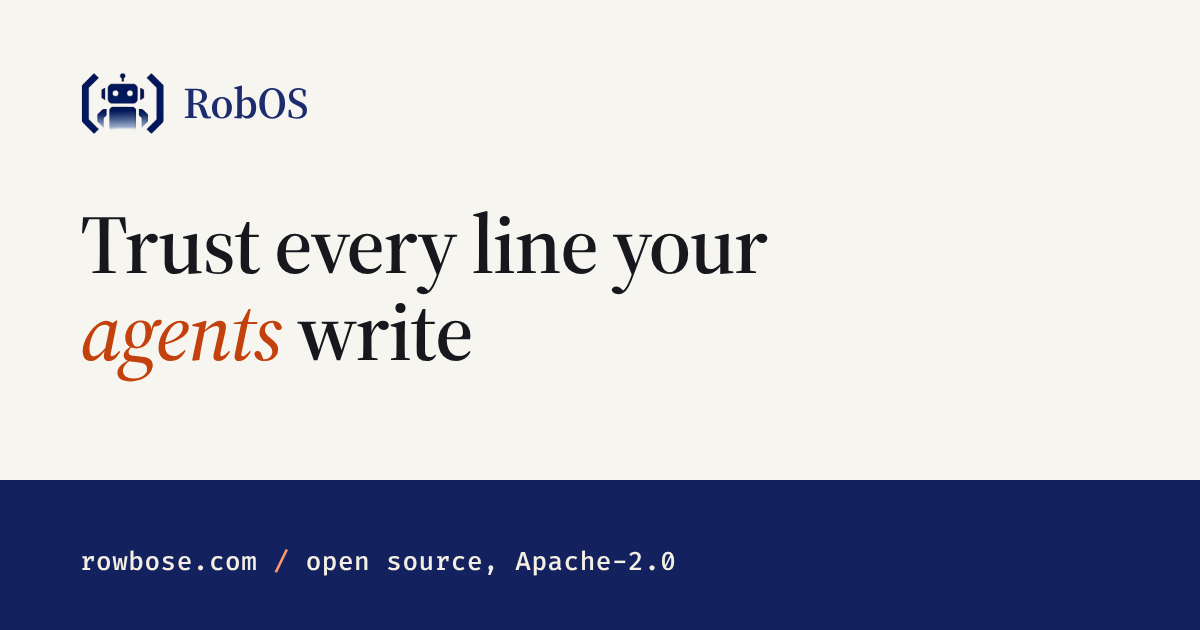
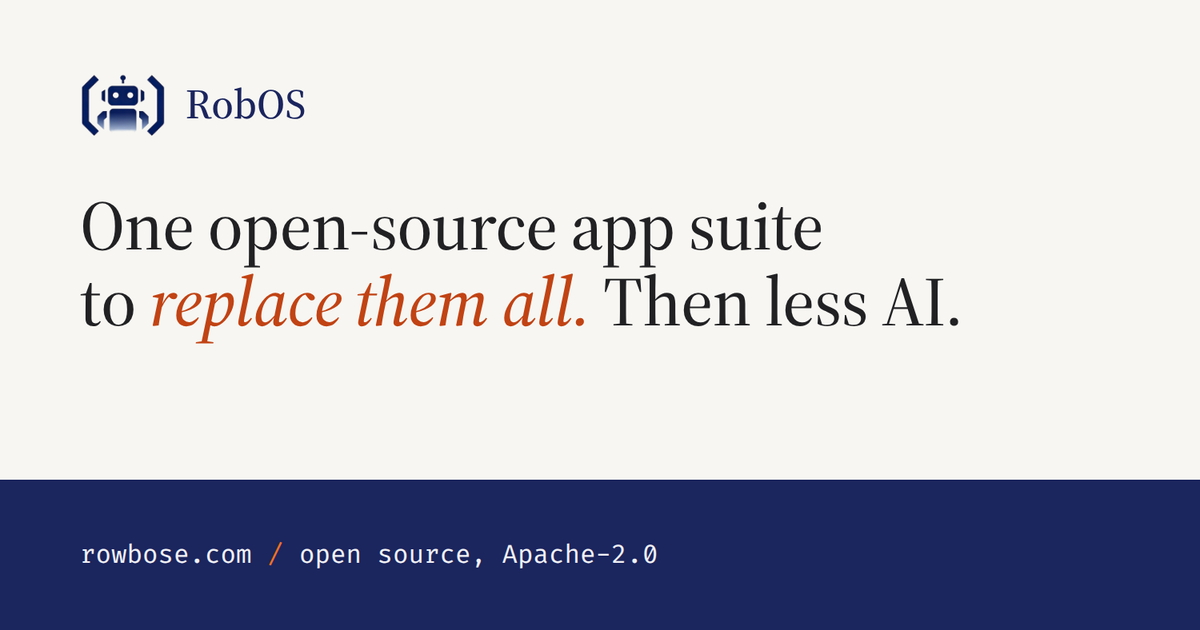
feat(site): lead the landing page with the two-move vision
Replace everything, slowly: one open-source suite that swaps out paid apps
one at a time. Then need less AI: keep and reuse what AI produces (code,
KGraph, tests) so each new app needs less AI and electricity, linking to the
Skill Commons proposal on /future/ with an honest exists-today note.

- new hero headline, lead and live app count (site.apps | size)
- new #vision section with swap list, reuse loop and roadmap illustration
- refreshed SEO title, description, llms.txt, footer tagline and OG card
- README documents the vision copy rules, Mermaid source and OG template

Changed region(s): [[0.0617, 0.3016, 0.8017, 0.6032], [0.0617, 0.8444, 0.5858, 0.9048], [0.0617, 0.1206, 0.2775, 0.2111]]

diff --git a/site/assets/landing.css b/site/assets/landing.css
@@ -121,4 +121,31 @@
 .landing #product .grid3 .card .go{display:inline-block}
 .l-ask{margin-top:28px;max-width:760px}
 #ai .l-show{margin-bottom:44px}
+
+/* vision: the two moves (replace everything, then need less AI) */
+.l-moves{display:grid;grid-template-columns:repeat(2,minmax(0,1fr));gap:18px;margin-top:44px}
+.l-move{display:flex;flex-direction:column;gap:12px}
+.l-move h3{font-size:1.35rem;margin:0}
+.l-move .go{margin-top:auto;padding-top:6px}
+.l-move-tag{align-self:flex-start;font-size:.72rem;font-weight:700;letter-spacing:.08em;text-transform:uppercase;border-radius:999px;padding:3px 10px;border:1px solid}
+.l-move-tag.is-now{color:#15803d;border-color:color-mix(in srgb,#15803d 45%,transparent)}
+.l-move-tag.is-next{color:var(--accent);border-color:color-mix(in srgb,var(--accent) 55%,transparent)}
+[data-theme=dark] .l-move-tag.is-now{color:#4ade80;border-color:color-mix(in srgb,#4ade80 45%,transparent)}
+.l-swaps{list-style:none;margin:4px 0 0;padding:0;display:grid;gap:6px}
+.l-swaps li{display:grid;grid-template-columns:minmax(0,1fr) auto minmax(0,1fr);align-items:center;gap:10px;font-size:.9rem}
+.l-swaps li:before{content:'→';grid-column:2;grid-row:1;color:var(--muted)}
+.l-swaps span{grid-column:1;grid-row:1;color:var(--muted);text-decoration:line-through;text-decoration-color:color-mix(in srgb,var(--muted) 55%,transparent)}
+.l-swaps a{grid-column:3;grid-row:1;font-weight:600;color:var(--fg);border:1px solid var(--line);border-radius:6px;padding:4px 10px;background:var(--bg2)}
+.l-swaps a:hover{border-color:var(--accent);color:var(--accent)}
+.l-loop{list-style:none;margin:4px 0 0;padding:0;display:grid;gap:8px;counter-reset:lp}
+.l-loop li{counter-increment:lp;position:relative;padding:8px 12px 8px 44px;border:1px solid var(--line);border-radius:8px;background:var(--bg2);font-size:.9rem;color:var(--muted)}
+.l-loop li:before{content:counter(lp);position:absolute;left:12px;top:50%;transform:translateY(-50%);display:grid;place-items:center;width:22px;height:22px;border-radius:50%;background:var(--accent);color:var(--btn-fg);font-size:.75rem;font-weight:700}
+.l-loop li:last-child{padding-right:34px}
+.l-loop li:last-child:after{content:'↺';position:absolute;right:12px;top:50%;transform:translateY(-50%);color:var(--accent);font-weight:700}
+.l-loop b{color:var(--fg)}
+.l-vision-fig{margin:28px 0 0}
+.l-vision-fig img{display:block;width:100%;height:auto;border:1px solid var(--line);border-radius:12px;background:#111827}
+#vision .l-note a{color:var(--accent);font-weight:600;text-decoration:underline}
+@media(max-width:860px){.l-moves{grid-template-columns:1fr}}
+@media(max-width:520px){.l-swaps li{grid-template-columns:1fr;gap:2px}.l-swaps li:before{display:none}.l-swaps span,.l-swaps a{grid-column:1;grid-row:auto;justify-self:start}}
 @media(max-width:600px){.l-mosaic{grid-template-columns:repeat(2,minmax(0,1fr))}}

diff --git a/site/_layouts/default.html b/site/_layouts/default.html
@@ -45,7 +45,7 @@
   <div class="wrap foot-in">
     <div>
       <a class="brand" href="{{ '/' | relative_url }}"><img src="{{ '/assets/logo-mark.png' | relative_url }}" alt="" height="30"><span>RobOS</span></a>
-      <p class="muted">One app suite.<br>Make it yours.</p>
+      <p class="muted">One open-source app suite.<br>Replace them all. Need less AI.</p>
     </div>
     <div><h4>Product</h4><a href="{{ '/download/' | relative_url }}">Download</a><a href="{{ '/apps/' | relative_url }}">App directory</a><a href="{{ '/build-apps/' | relative_url }}">Build apps guide</a><a href="{{ '/code-review/' | relative_url }}">Code review guide</a><a href="{{ '/auto-center/' | relative_url }}">Auto Center guide</a><a href="{{ '/point-of-sale/' | relative_url }}">Point of Sale guide</a><a href="{{ '/family-finances/' | relative_url }}">Family finances guide</a><a href="{{ '/movie-player/' | relative_url }}">Movie &amp; Video Player guide</a><a href="{{ '/p2p/' | relative_url }}">Zero-Trust P2P App Mesh</a><a href="{{ '/config-management/' | relative_url }}">Config management guide</a><a href="{{ '/games/' | relative_url }}">Games</a><a href="{{ '/tv/' | relative_url }}">Smart TV guide</a><a href="{{ '/v1/roadmap.html' | relative_url }}">Roadmap</a><a href="{{ '/future/' | relative_url }}">The future</a></div>
     <div><h4>Resources</h4><a href="{{ '/docs/' | relative_url }}">Documentation</a><a href="{{ '/security/' | relative_url }}">Security</a><a href="{{ '/blog/' | relative_url }}">Blog</a><a href="{{ '/v1/getting-started.html' | relative_url }}">Installation guide</a><a href="{{ '/v1/' | relative_url }}">Classic docs (v1)</a></div>

diff --git a/scripts/site-og-card.html b/scripts/site-og-card.html
@@ -1,0 +1,21 @@
+<!doctype html>
+<html><head><meta charset="utf-8">
+<link href="https://fonts.googleapis.com/css2?family=Source+Serif+4:ital,opsz,wght@0,8..60,500;1,8..60,500&family=Fira+Code:wght@400&display=swap" rel="stylesheet">
+<style>
+  html,body{margin:0;width:1200px;height:630px;overflow:hidden}
+  .card{width:1200px;height:630px;display:grid;grid-template-rows:480px 150px;font-family:'Source Serif 4',Georgia,serif}
+  .top{background:#f7f6f2;padding:72px 80px 0}
+  .brand{display:flex;align-items:center;gap:20px;color:#14205e;font-size:42px;font-weight:500}
+  .brand img{height:64px}
+  h1{margin:52px 0 0;font-size:70px;line-height:1.08;font-weight:500;color:#1b1b1f;letter-spacing:-.01em}
+  h1 em{color:#c2410c;font-style:italic}
+  .bot{background:#14205e;display:flex;align-items:center;padding:0 80px;font:26px 'Fira Code',monospace;color:#f2f2f6;gap:16px}
+  .bot i{color:#f97316;font-style:normal}
+</style></head>
+<body><div class="card">
+  <div class="top">
+    <div class="brand"><img src="/assets/logo-mark.png" alt=""><span>RobOS</span></div>
+    <h1>One open-source app suite<br>to <em>replace them all.</em> Then less AI.</h1>
+  </div>
+  <div class="bot">rowbose.com <i>/</i> open source, Apache-2.0</div>
+</div></body></html>

diff --git a/site/_includes/seo.html b/site/_includes/seo.html
@@ -2,7 +2,7 @@
 {%- if page.seo_title -%}
   {%- assign seo_title = page.seo_title -%}
 {%- elsif page.url == '/' -%}
-  {%- assign seo_title = 'RobOS — One app suite. Make it yours.' -%}
+  {%- assign seo_title = 'RobOS — One open-source app suite to replace them all.' -%}
 {%- elsif page.layout == 'game' -%}
   {%- assign seo_title = page.title | append: ' · RobOS Games' -%}
 {%- elsif page.title -%}

diff --git a/site/index.md b/site/index.md
@@ -1,30 +1,30 @@
 ---
 layout: default
 title: RobOS
-description: "RobOS is an open-source app suite built on one knowledge graph. Use the apps as they are, customize any of them, or describe a new app and have it built. AI features inside the apps are optional, like the Audio Player's Virtual DJ."
+description: "RobOS is one open-source app suite built to replace the apps you pay for, one at a time, on one knowledge graph. Then it keeps and reuses what AI makes, so every new app needs less AI and less electricity."
 permalink: /
 body_class: landing
 extra_css: /assets/landing.css
 og_image: /assets/og.png
 og_image_width: 1200
 og_image_height: 630
-og_image_alt: "RobOS — One app suite. Make it yours."
-keywords: "RobOS, Rowbose, rowbose.com, open-source app suite, knowledge graph, KGraph, context engineering, Point of Sale, Auto Center, Household finances, Audio Player Virtual DJ, Godot 4 AI games, developer tools, coding agents"
+og_image_alt: "RobOS — One open-source app suite to replace them all. Then need less AI."
+keywords: "RobOS, Rowbose, rowbose.com, open-source app suite, replace paid apps, open-source alternatives, knowledge graph, KGraph, context engineering, AI energy use, reuse AI output, Skill Commons, Point of Sale, Auto Center, Household finances, Audio Player Virtual DJ, Godot 4 AI games, developer tools, coding agents"
 ---
 <section class="l-hero">
   <div class="wrap l-hero-grid">
     <div>
-      <a class="pill" href="{{ '/blog/' | relative_url }}"><b>New</b> · OBD-II in Auto Center, a Virtual DJ in Audio Player →</a>
-      <h1>One app suite. <em>Make it yours.</em></h1>
-      <p class="lead">RobOS is a suite of desktop apps, from a point of sale and an auto shop to household finances, games, music and developer tools, all built on one knowledge graph. Use the apps as they are, customize any of them to fit how you work, or describe a new app and RobOS builds it.</p>
+      <a class="pill" href="#vision"><b>The plan</b> · Replace everything, then need less AI →</a>
+      <h1>One open-source app suite <em>to replace them all.</em></h1>
+      <p class="lead">Free desktop apps for shops, homes, players and developers, all on one knowledge graph. First RobOS replaces the apps you pay for, one at a time. Then it keeps and reuses what AI makes, so each new app needs less AI, and less electricity.</p>
       <ul class="l-three">
-        <li><b>Use</b> ready-made app suites, free and local</li>
+        <li><b>Replace</b> paid apps with free, local ones ({{ site.apps | size }} so far)</li>
         <li><b>Customize</b> any app by describing the change</li>
-        <li><b>Build</b> new apps from context, with proof they work</li>
+        <li><b>Reuse</b> what AI built once, instead of asking it again</li>
       </ul>
       <div class="cta">
         <a class="btn" data-dl-href data-win="{{ site.data.release.url }}" data-win-asset="RobOS-v{{ site.data.release.version }}-Windows-Setup.exe" data-release-tag="{{ site.data.release.tag }}" data-mac="/download/#linux-distro" data-linux="/download/#linux-distro" href="{{ '/download/' | relative_url }}"><img class="btn-ic" src="/assets/icons/download.svg" alt="" width="18" height="18"> <span data-dl-label>Download RobOS</span></a>
-        <a class="btn btn-ghost" href="#suites">Browse the suites</a>
+        <a class="btn btn-ghost" href="#vision">See the plan</a>
       </div>
       <p class="sub">Free &amp; open source · macOS, Linux, Windows · <a href="{{ '/download/' | relative_url }}">Other install options</a></p>
     </div>
@@ -42,6 +42,46 @@ keywords: "RobOS, Rowbose, rowbose.com, open-source app suite, knowledge graph, 
 </section>
 
 <div class="logos"><div class="wrap">Optional AI features use the agent you already have, or none at all<div><span>Claude Code</span><span>OpenAI Codex</span><span>GitHub Copilot</span><span>Gemini CLI · Antigravity</span><span>Local models via Ollama</span></div></div></div>
+
+<section id="vision">
+  <div class="wrap">
+    <p class="eyebrow">The vision</p>
+    <h2 class="h2">One suite to replace them all. Then less AI, not more.</h2>
+    <p class="sec-p">Most of us pay for dozens of apps that don't talk to each other, and each new one gets written from scratch again, more and more often by a giant AI model in a data center. RobOS takes the other road, in two moves.</p>
+    <div class="l-moves">
+      <div class="card l-move">
+        <span class="l-move-tag is-now">Move 1 · Happening now</span>
+        <h3>Replace everything, slowly</h3>
+        <p>One open-source suite on one knowledge graph, growing app by app until it covers the software you rely on. Each replacement is free, keeps your data on your machine and can be reshaped by describing the change.</p>
+        <ul class="l-swaps" aria-label="Examples of what RobOS replaces">
+          <li><span>Subscription cash registers</span><a href="{{ '/point-of-sale/' | relative_url }}">Point of Sale</a></li>
+          <li><span>Repair-shop management software</span><a href="{{ '/auto-center/' | relative_url }}">Auto Center</a></li>
+          <li><span>Budgeting and tax-prep apps</span><a href="{{ '/family-finances/' | relative_url }}">Household</a></li>
+          <li><span>Locked-in music and movie apps</span><a href="{{ '/movie-player/' | relative_url }}">Audio &amp; Movie Player</a></li>
+          <li><span>Vendor smart-home and TV apps</span><a href="{{ '/v1/apps/smart-light/' | relative_url }}">Smart Light &amp; Smart TV</a></li>
+          <li><span>Per-seat developer tools</span><a href="{{ '/build-apps/' | relative_url }}">Developer suite</a></li>
+        </ul>
+        <a class="go" href="{{ '/apps/' | relative_url }}">Browse all {{ site.apps | size }} apps →</a>
+      </div>
+      <div class="card l-move">
+        <span class="l-move-tag is-next">Move 2 · The future</span>
+        <h3>Need less AI over time</h3>
+        <p>Every time AI solves a problem, the answer costs electricity, and today the same problems get solved again and again. RobOS keeps what AI produces, the code, the knowledge graph and the tests, so the next person reuses it instead of asking again. Built once, an app runs with no AI at all.</p>
+        <ol class="l-loop" aria-label="The reuse loop">
+          <li><b>Solve once.</b> AI builds a piece that does not exist yet.</li>
+          <li><b>Keep it.</b> Code, graph and tests are stored and shared.</li>
+          <li><b>Reuse it.</b> The next app snaps it in, with no AI call.</li>
+          <li><b>AI only for what is new,</b> on a small model on your own computer.</li>
+        </ol>
+        <a class="go" href="{{ '/future/' | relative_url }}">See the future: The Skill Commons →</a>
+      </div>
+    </div>
+    <figure class="l-vision-fig">
+      <img src="{{ '/assets/landing/vision-roadmap.jpg' | relative_url }}" alt="The RobOS plan in two moves. Move 1, replace everything, slowly: paid apps are swapped one by one for RobOS apps such as Point of Sale, Auto Center, Household finances, Audio and Movie Player and developer tools, plus the next app you describe. Every app is built once and kept. Move 2, need less AI over time: AI solves a task once, the output is stored as code, graph and tests, the next time it is reused with no AI call, and AI is used only for what is truly new. AI calls, and electricity, per task fall over time, with a small AI on your own computer." width="1376" height="768" loading="lazy">
+    </figure>
+    <p class="l-note">Move 1 ships today. Move 2 is a proposal: RobOS already keeps AI's work as code, KGraph nodes, skills and tests, and runs local models through Ollama, but the shared catalog and the small-model assembler are not built yet. <a href="{{ '/future/#is-this-real' | relative_url }}">What exists today, and what doesn't →</a></p>
+  </div>
+</section>
 
 <section class="alt" id="product">
   <div class="wrap">
@@ -183,7 +223,7 @@ keywords: "RobOS, Rowbose, rowbose.com, open-source app suite, knowledge graph, 
   <div class="wrap">
     <p class="eyebrow">Build new apps from context</p>
     <h2 class="h2">Describe it once. The graph does the remembering.</h2>
-    <p class="sec-p">Behind every RobOS app is a KGraph: a standard description of what exists, how it behaves and how to verify it. That is context engineering made durable. With the context written down, building and rebuilding is cheap work that routed, lower-cost models can carry, and every change comes back with proof.</p>
+    <p class="sec-p">Behind every RobOS app is a KGraph: a standard description of what exists, how it behaves and how to verify it. That is context engineering made durable. With the context written down, building and rebuilding is cheap work that routed, lower-cost models can carry, every change comes back with proof, and the result is kept, so the same work never has to be generated twice.</p>
     <ol class="l-steps">
       <li><b>Describe</b><span>A sentence, a sketch, or an import of the repos, APIs, databases and docs you already have.</span></li>
       <li><b>Model</b><span>RobOS turns it into KGraph nodes: entities, screens, rules and the tests that define "working".</span></li>
@@ -300,7 +340,7 @@ keywords: "RobOS, Rowbose, rowbose.com, open-source app suite, knowledge graph, 
 
 <section class="final alt">
   <div class="wrap">
-    <h2 class="h2">Use it, change it, or build your own.</h2>
+    <h2 class="h2">Replace one app today. Need less AI tomorrow.</h2>
     <div class="cta" style="margin-top:30px"><a class="btn btn-accent" href="{{ '/download/' | relative_url }}"><img class="btn-ic" src="/assets/icons/download.svg" alt="" width="18" height="18"> Download RobOS</a><a class="btn btn-ghost" href="https://github.com/nddipiazza/robos" target="_blank" rel="noopener"><img class="btn-ic" src="/assets/icons/star.svg" alt="" width="18" height="18"> Star on GitHub</a></div>
   </div>
 </section>

diff --git a/site/README.md b/site/README.md
@@ -22,6 +22,40 @@ Each post is its own file, `_blog/<slug>.html`, published at `/blog/<slug>/` wit
 from the same day) and has no post content of its own. Old `/blog/#<slug>` links are forwarded to the
 post's page by a script on the index. The `robos-blog` skill describes the front matter.
 
+## Home page vision (`/#vision`) and share card
+
+The home page leads with the two-move plan: **Move 1**, one open-source suite that replaces the apps people
+pay for, one at a time (ships today); **Move 2**, keep and reuse what AI produces so each new app needs less
+AI and less electricity (the Skill Commons proposal on `/future/`, not built yet). Keep that split honest in
+copy: Move 2 claims must say what exists today. App counts come from `site.apps | size`, so they track
+`docs/_apps` automatically.
+
+`assets/landing/vision-roadmap.jpg` is an AI-generated illustration in the same style as the `/future/`
+figures. Its exact content, for regenerating or redrawing it:
+
+```mermaid
+flowchart LR
+  subgraph M1["Move 1 · Replace everything, slowly"]
+    P1[Paid app] --> POS[Point of Sale]
+    P2[Paid app] --> AC[Auto Center]
+    P3[Paid app] --> HH[Household finances]
+    P4[Paid app] --> AMP["Audio & Movie Player"]
+    P5[Paid app] --> DEV[Developer tools]
+    NEXT["+ the next app you describe"]
+  end
+  subgraph M2["Move 2 · Need less AI over time"]
+    S1["1. AI solves a task once"] --> S2["2. Output is stored: code, graph, tests"]
+    S2 --> S3["3. Next time, reuse it, no AI call"]
+    S3 --> S4["4. AI only for what is truly new"]
+    S4 --> S1
+    LOCAL["Small AI on your own computer"]
+  end
+  M1 -- "every app built once, kept forever" --> M2
+```
+
+`assets/og.png` (1200×630) is rendered from `scripts/site-og-card.html`: copy it into the built site, open it
+in a 1200×630 viewport (it loads `/assets/logo-mark.png`) and screenshot it.
+
 ## Hero video
 
 The hero on the home page is a recording of the real apps. Regenerate it with the steps in
